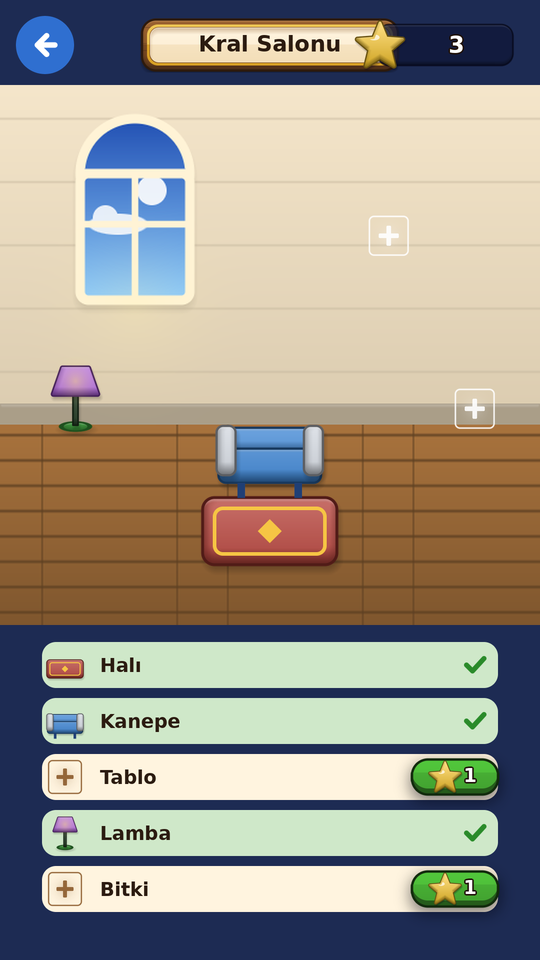
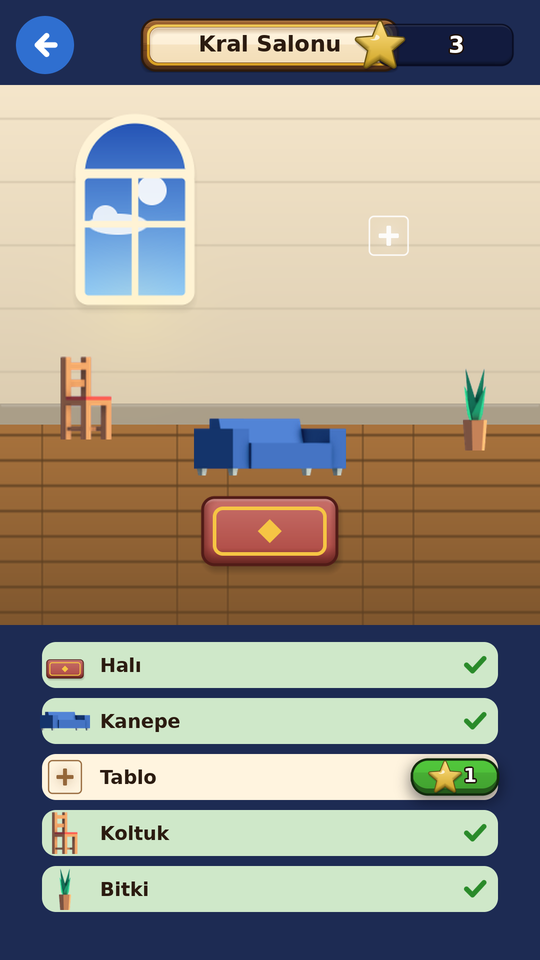
Royal Match klonu: Kenney CC0 hazır çizimler (mobilya, simge, parçacık)
Assets/Resources/Art altına kamu malı Kenney paketlerinden mobilya
(odalar için 9 tür × 3 model), beyaz arayüz simgeleri ve parçacık
dokuları eklendi; LICENSE-CC0.txt ile birlikte. Art.Ext yükleyicisi
dosya varsa onu, yoksa kodla üretilen görseli kullanır. Oda görevlerine
koltuk ve televizyon eklendi; patlama efektleri gerçek yıldız/ışık
dokularıyla zenginleştirildi. Oda taslağı güncellendi.

Claude-Session: https://claude.ai/code/session_01Rx5HF5XXL6DvYaD9FX2Ao7

diff --git a/RoyalMatchUnity/Assets/Scripts/UI/RoomScreen.cs b/RoyalMatchUnity/Assets/Scripts/UI/RoomScreen.cs
@@ -20,10 +20,10 @@ namespace RoyalMatch
                 {
                     new RoomDef { name = "Kral Salonu", tasks = new[] {
                         T("Halı", "carpet", 0.5f, 0.2f, 2.4f), T("Kanepe", "sofa", 0.5f, 0.33f, 1.9f), T("Tablo", "painting", 0.72f, 0.72f, 1.3f),
-                        T("Lamba", "lamp", 0.14f, 0.42f, 1.3f), T("Bitki", "plant", 0.88f, 0.4f, 1.3f) } },
+                        T("Koltuk", "chair", 0.16f, 0.42f, 1.3f), T("Bitki", "plant", 0.88f, 0.4f, 1.3f) } },
                     new RoomDef { name = "Yatak Odası", tasks = new[] {
                         T("Yatak", "bed", 0.5f, 0.3f, 2.2f), T("Halı", "carpet", 0.5f, 0.14f, 1.8f), T("Kitaplık", "bookshelf", 0.14f, 0.5f, 1.5f),
-                        T("Lamba", "lamp", 0.86f, 0.42f, 1.2f), T("Tablo", "painting", 0.5f, 0.78f, 1.2f) } },
+                        T("Lamba", "lamp", 0.86f, 0.42f, 1.2f), T("Televizyon", "tv", 0.5f, 0.6f, 1.1f) } },
                     new RoomDef { name = "Kraliyet Bahçesi", tasks = new[] {
                         T("Çeşme", "fountain", 0.5f, 0.32f, 2.2f), T("Bank", "bench", 0.2f, 0.26f, 1.5f), T("Bank", "bench", 0.8f, 0.26f, 1.5f),
                         T("Çiçek", "plant", 0.14f, 0.55f, 1.3f), T("Çiçek", "plant", 0.86f, 0.55f, 1.3f) } },
@@ -107,7 +107,7 @@ namespace RoyalMatch
                 float size = 128f * t.scale;
                 if (style >= 0)
                 {
-                    var f = Ui.Img(area.rectTransform, Art.Furniture(t.kind, style), Color.white, new Vector2(size, size), pos);
+                    var f = Ui.Img(area.rectTransform, Art.FurnitureAny(t.kind, style), Color.white, new Vector2(size * 1.25f, size), pos);
                     if (i == lastPlaced) { f.transform.localScale = Vector3.zero; f.gameObject.AddComponent<PlaceIn>(); }
                 }
                 else
@@ -118,7 +118,7 @@ namespace RoyalMatch
             }
 
             // Üst şerit
-            Ui.IconBtn(root, Art.Back(), Art.Hex("#2F6FD0"), 120f, new Vector2(30f, -30f), () => GameManager.I.ShowMap(), new Vector2(0f, 1f));
+            Ui.IconBtn(root, Art.IconBack(), Art.Hex("#2F6FD0"), 120f, new Vector2(30f, -30f), () => GameManager.I.ShowMap(), new Vector2(0f, 1f));
             Ui.Pill(root, Art.StarIcon(), d.stars.ToString(), new Vector2(-30f, -40f), new Vector2(280f, 90f), new Vector2(1f, 1f));
             var title = Ui.Wood(root, new Vector2(520f, 110f), new Vector2(0f, -30f), new Vector2(0.5f, 1f));
             Ui.Txt(title.rectTransform, room.name, 44, Art.Hex("#2B1B10"), Vector2.zero, new Vector2(500f, 100f), null, TextAnchor.MiddleCenter, false);
@@ -132,10 +132,10 @@ namespace RoyalMatch
                 var t = room.tasks[i];
                 bool done = Rooms.Choice(i) >= 0;
                 var row = Ui.Panel(root, done ? Art.Hex("#CFE8C9") : Art.Hex("#FFF4DF"), new Vector2(920f, 100f), new Vector2(0f, y), new Vector2(0.5f, 0f), true);
-                Ui.Img(row.rectTransform, done ? Art.Furniture(t.kind, Rooms.Choice(i)) : Art.FurnitureGhost(t.kind), done ? Color.white : Art.Hex("#8B5A2B"), new Vector2(80f, 80f), new Vector2(16f, 0f), new Vector2(0f, 0.5f));
+                Ui.Img(row.rectTransform, done ? Art.FurnitureAny(t.kind, Rooms.Choice(i)) : Art.FurnitureGhost(t.kind), done ? Color.white : Art.Hex("#8B5A2B"), new Vector2(80f, 80f), new Vector2(16f, 0f), new Vector2(0f, 0.5f));
                 Ui.Txt(row.rectTransform, t.name, 36, Art.Hex("#2B1B10"), new Vector2(110f, 0f), new Vector2(400f, 90f), new Vector2(0f, 0.5f), TextAnchor.MiddleLeft, false);
                 if (done)
-                    Ui.Img(row.rectTransform, Art.Check(), Art.Hex("#2A8A2A"), new Vector2(64f, 64f), new Vector2(-30f, 0f), new Vector2(1f, 0.5f));
+                    Ui.Img(row.rectTransform, Art.IconCheck(), Art.Hex("#2A8A2A"), new Vector2(64f, 64f), new Vector2(-30f, 0f), new Vector2(1f, 0.5f));
                 else
                 {
                     var b = Ui.Btn(row.rectTransform, "  1", d.stars >= 1 ? Art.GreenBtn : Art.Hex("#8A94A6"), new Vector2(180f, 78f), new Vector2(-16f, 0f), () =>
@@ -172,7 +172,7 @@ namespace RoyalMatch
                 int style = s;
                 float x = (s - 1) * 270f;
                 var slot = Ui.Panel(p, Art.Hex("#FFF3D6"), new Vector2(240f, 300f), new Vector2(x, -10f), null, true);
-                Ui.Img(slot.rectTransform, Art.Furniture(t.kind, style), Color.white, new Vector2(200f, 200f), new Vector2(0f, 30f));
+                Ui.Img(slot.rectTransform, Art.FurnitureAny(t.kind, style), Color.white, new Vector2(210f, 170f), new Vector2(0f, 30f));
                 Ui.Btn(slot.rectTransform, "Seç", Art.GreenBtn, new Vector2(180f, 70f), new Vector2(0f, -100f), () =>
                 {
                     if (Save.Data.stars < 1) return;

diff --git a/RoyalMatchUnity/Assets/Scripts/Art/ArtExternal.cs b/RoyalMatchUnity/Assets/Scripts/Art/ArtExternal.cs
@@ -1,0 +1,77 @@
+using System.Collections.Generic;
+using UnityEngine;
+
+namespace RoyalMatch
+{
+    /// <summary>
+    /// Dışarıdan gelen hazır çizimler: Assets/Resources/Art altındaki CC0 (Kenney) PNG'ler.
+    /// Dosya yoksa kodla üretilen görsel kullanılır; bu yüzden hiçbir ekran dosyaya bağımlı değildir.
+    /// PNG'ler Texture2D olarak yüklenir ve çalışma anında Sprite'a çevrilir (içe aktarma ayarı gerekmez).
+    /// </summary>
+    public static partial class Art
+    {
+        private static readonly Dictionary<string, Sprite> external = new Dictionary<string, Sprite>();
+        private static readonly HashSet<string> missing = new HashSet<string>();
+
+        /// <summary>Resources/Art/{path}.png varsa Sprite döner, yoksa null.</summary>
+        public static Sprite Ext(string path, float ppu = 100f)
+        {
+            Sprite s;
+            if (external.TryGetValue(path, out s)) return s;
+            if (missing.Contains(path)) return null;
+            Texture2D tex = Resources.Load<Texture2D>("Art/" + path);
+            if (tex == null) { missing.Add(path); return null; }
+            s = Sprite.Create(tex, new Rect(0, 0, tex.width, tex.height), new Vector2(0.5f, 0.5f), ppu);
+            s.name = "ext_" + path;
+            external[path] = s;
+            return s;
+        }
+
+        /// <summary>Oda eşyası için hazır model adı (Kenney Furniture Kit, yan görünüm). Yoksa null → kodla çizilir.</summary>
+        public static string FurnitureFile(string kind, int style)
+        {
+            string[] set;
+            switch (kind)
+            {
+                case "sofa": set = new[] { "loungeSofa", "loungeDesignSofa", "loungeSofaLong" }; break;
+                case "table": set = new[] { "table", "tableRound", "tableCoffee" }; break;
+                case "lamp": set = new[] { "lampRoundFloor", "lampSquareFloor", "lampRoundTable" }; break;
+                case "plant": set = new[] { "pottedPlant", "plantSmall1", "plantSmall3" }; break;
+                case "bed": set = new[] { "bedSingle", "bedDouble", "bedBunk" }; break;
+                case "bookshelf": set = new[] { "bookcaseClosed", "bookcaseOpen", "bookcaseClosedWide" }; break;
+                case "bench": set = new[] { "bench", "benchCushion", "benchCushionLow" }; break;
+                case "chair": set = new[] { "loungeChair", "loungeChairRelax", "chairCushion" }; break;
+                case "tv": set = new[] { "televisionModern", "televisionVintage", "radio" }; break;
+                default: return null;
+            }
+            return set[Mathf.Clamp(style, 0, set.Length - 1)];
+        }
+
+        /// <summary>Hazır eşya çizimi varsa onu, yoksa kodla üretileni verir.</summary>
+        public static Sprite FurnitureAny(string kind, int style)
+        {
+            string f = FurnitureFile(kind, style);
+            Sprite s = f == null ? null : Ext("furniture/" + f);
+            return s ?? Furniture(kind, style);
+        }
+
+        // Parçacık paketi (yumuşak kenarlı gerçek efekt dokuları); yoksa kodla üretilen eşdeğer
+        public static Sprite FxStar() { return Ext("fx/star_05", 400f) ?? Sparkle(); }
+        public static Sprite FxStarSmall() { return Ext("fx/star_07", 400f) ?? Particle(); }
+        public static Sprite FxLight() { return Ext("fx/light_01", 400f) ?? SoftGlow(); }
+        public static Sprite FxFlare() { return Ext("fx/flare_01", 400f) ?? SoftGlow(); }
+        public static Sprite FxTwirl() { return Ext("fx/twirl_02", 400f) ?? Ring(); }
+        public static Sprite FxMagic() { return Ext("fx/magic_03", 400f) ?? Sparkle(); }
+        public static Sprite FxCircle() { return Ext("fx/circle_05", 400f) ?? Particle(); }
+
+        // Arayüz simgeleri (Kenney Game Icons, beyaz; Image.color ile renklenir)
+        public static Sprite IconGear() { return Ext("icons/gear") ?? Gear(); }
+        public static Sprite IconHome() { return Ext("icons/home") ?? Home(); }
+        public static Sprite IconBack() { return Ext("icons/arrowLeft") ?? Back(); }
+        public static Sprite IconClose() { return Ext("icons/cross") ?? Close(); }
+        public static Sprite IconPlus() { return Ext("icons/plus") ?? Plus(); }
+        public static Sprite IconCheck() { return Ext("icons/checkmark") ?? Check(); }
+        public static Sprite IconSpeaker(bool on) { return Ext(on ? "icons/audioOn" : "icons/audioOff") ?? Speaker(on); }
+        public static Sprite IconTrophyFlat() { return Ext("icons/trophy"); }
+    }
+}

diff --git a/RoyalMatchUnity/Assets/Scripts/UI/MapScreen.cs b/RoyalMatchUnity/Assets/Scripts/UI/MapScreen.cs
@@ -31,7 +31,7 @@ namespace RoyalMatch
             var coinsPill = ms.coinsText.transform.parent.gameObject;
             var coinBtn = coinsPill.AddComponent<Button>(); coinBtn.onClick.AddListener(() => ShopPopup.Show(root));
             var plus = Ui.Img(coinsPill.transform, Art.CircleUi(), Art.GreenBtn, new Vector2(54f, 54f), new Vector2(-8f, 0f), new Vector2(1f, 0.5f));
-            Ui.Img(plus.rectTransform, Art.Plus(), Color.white, new Vector2(34f, 34f), Vector2.zero);
+            Ui.Img(plus.rectTransform, Art.IconPlus(), Color.white, new Vector2(34f, 34f), Vector2.zero);
             ms.starsText = Ui.Pill(root, Art.StarIcon(), d.stars.ToString(), new Vector2(-30f, -40f), new Vector2(300f, 90f), new Vector2(1f, 1f));
 
             // Konuşma balonu + Kral
@@ -45,7 +45,7 @@ namespace RoyalMatch
             var room = Rooms.Get(d.roomIndex);
             int done = 0; for (int i = 0; i < room.tasks.Length; i++) if (Rooms.Choice(i) >= 0) done++;
             var roomPanel = Ui.Glass(root, new Vector2(760f, 110f), new Vector2(0f, -130f));
-            Ui.Img(roomPanel.rectTransform, Art.Home(), Color.white, new Vector2(64f, 64f), new Vector2(60f, 0f), new Vector2(0f, 0.5f));
+            Ui.Img(roomPanel.rectTransform, Art.IconHome(), Color.white, new Vector2(64f, 64f), new Vector2(60f, 0f), new Vector2(0f, 0.5f));
             Ui.Txt(roomPanel.rectTransform, room.name + "   " + done + "/" + room.tasks.Length, 40, Color.white, new Vector2(30f, 0f), new Vector2(600f, 100f));
             var rb = roomPanel.gameObject.AddComponent<Button>(); rb.onClick.AddListener(() => GameManager.I.ShowRooms());
             roomPanel.gameObject.AddComponent<PressScale>();
@@ -70,7 +70,7 @@ namespace RoyalMatch
             // Alt gezinti
             var bar = Ui.Wood(root, new Vector2(1120f, 220f), new Vector2(0f, -10f), new Vector2(0.5f, 0f));
             string[] labels = { "Şato", "Mağaza", "Ayarlar" };
-            Sprite[] icons = { Art.Home(), Art.Coin(), Art.Gear() };
+            Sprite[] icons = { Art.IconHome(), Art.Coin(), Art.IconGear() };
             Color[] cols = { Art.Hex("#2F6FD0"), Art.Hex("#B9831A"), Art.Hex("#5C6676") };
             System.Action[] acts = { () => GameManager.I.ShowRooms(), () => ShopPopup.Show(root), () => SettingsPopup.Show(root) };
             for (int i = 0; i < 3; i++)

diff --git a/RoyalMatchUnity/Assets/Scripts/Board/BoardView.cs b/RoyalMatchUnity/Assets/Scripts/Board/BoardView.cs
@@ -75,7 +75,7 @@ namespace RoyalMatch
             var vel = new List<Vector3>();
             for (int i = 0; i < n; i++)
             {
-                var sr = Spawn(parent, Art.Particle(), pos, c, 45);
+                var sr = Spawn(parent, (i % 3 == 0) ? Art.FxStarSmall() : Art.FxCircle(), pos, c, 45);
                 float a = Random.Range(0f, Mathf.PI * 2f), sp = Random.Range(2.5f, 5.5f);
                 sr.transform.localScale = Vector3.one * Random.Range(0.6f, 1.1f);
                 parts.Add(sr); vel.Add(new Vector3(Mathf.Cos(a) * sp, Mathf.Sin(a) * sp, 0f));
@@ -98,6 +98,9 @@ namespace RoyalMatch
 
         public static IEnumerator Ring(Transform parent, Vector3 pos, Color c, float radius, float dur = 0.35f)
         {
+            var glow = Spawn(parent, Art.FxLight(), pos, new Color(c.r, c.g, c.b, 0.8f), 43);
+            glow.transform.localScale = Vector3.one * radius;
+            Object.Destroy(glow.gameObject, dur * 0.6f);
             var sr = Spawn(parent, Art.Ring(), pos, c, 44);
             float t = 0f;
             while (t < dur)

diff --git a/RoyalMatchUnity/Assets/Scripts/UI/HudScreen.cs b/RoyalMatchUnity/Assets/Scripts/UI/HudScreen.cs
@@ -84,12 +84,12 @@ namespace RoyalMatch
                 goalIcons[g] = icon.rectTransform;
                 goalTexts[g] = Ui.Badge(topPanel, level.goals[i].count.ToString(), Art.NavyUi, 58f, new Vector2(x + 44f, -54f));
                 shown[g] = level.goals[i].count;
-                var ck = Ui.Img(topPanel, Art.Check(), Art.Hex("#52C83C"), new Vector2(56f, 56f), new Vector2(x + 44f, -54f));
+                var ck = Ui.Img(topPanel, Art.IconCheck(), Art.Hex("#52C83C"), new Vector2(56f, 56f), new Vector2(x + 44f, -54f));
                 ck.gameObject.SetActive(false);
                 goalChecks[g] = ck;
             }
 
-            Ui.IconBtn(topPanel, Art.Gear(), Art.Hex("#2F6FD0"), 120f, new Vector2(-40f, 0f), ShowPause, new Vector2(1f, 0.5f));
+            Ui.IconBtn(topPanel, Art.IconGear(), Art.Hex("#2F6FD0"), 120f, new Vector2(-40f, 0f), ShowPause, new Vector2(1f, 0.5f));
 
             if (level.difficulty != Difficulty.Normal)
                 Ui.RibbonTitle(rt, level.difficulty == Difficulty.Hard ? "ZOR SEVİYE" : "ÇOK ZOR SEVİYE",

diff --git a/RoyalMatchUnity/Assets/Scripts/Board/BoardController.cs b/RoyalMatchUnity/Assets/Scripts/Board/BoardController.cs
@@ -551,7 +551,23 @@ namespace RoyalMatch
             views[p.id] = v;
             v.transform.localScale = Vector3.zero;
             StartCoroutine(Fx.Ring(boardRoot, pos, Color.white, 0.9f, 0.25f));
+            var tw = Fx.Spawn(boardRoot, Art.FxTwirl(), pos, new Color(1f, 0.95f, 0.7f, 0.9f), 41);
+            StartCoroutine(Spin(tw, 0.4f));
             yield return Tween.Scale(v.transform, Vector3.one * 0.92f, 0.18f, Ease.OutBack);
+        }
+
+        private IEnumerator Spin(SpriteRenderer sr, float dur)
+        {
+            float t = 0f;
+            while (t < dur && sr != null)
+            {
+                t += Time.deltaTime; float k = t / dur;
+                sr.transform.localEulerAngles = new Vector3(0, 0, k * 240f);
+                sr.transform.localScale = Vector3.one * (0.6f + k * 1.2f);
+                sr.color = new Color(1f, 0.95f, 0.7f, 0.9f * (1f - k));
+                yield return null;
+            }
+            if (sr != null) Destroy(sr.gameObject);
         }
 
         private IEnumerator AnimateGravity()

diff --git a/RoyalMatchUnity/Assets/Scripts/UI/UiKit.cs b/RoyalMatchUnity/Assets/Scripts/UI/UiKit.cs
@@ -199,7 +199,7 @@ namespace RoyalMatch
 
         public static void CloseButton(RectTransform panel, Action onClose = null)
         {
-            IconBtn(panel, Art.Close(), Art.RedBtn, 96f, new Vector2(14f, 14f), () => { ClosePopup(panel); if (onClose != null) onClose(); }, new Vector2(1f, 1f), 0.5f);
+            IconBtn(panel, Art.IconClose(), Art.RedBtn, 96f, new Vector2(14f, 14f), () => { ClosePopup(panel); if (onClose != null) onClose(); }, new Vector2(1f, 1f), 0.5f);
         }
 
         public static Color Hex(string h) { return Art.Hex(h); }

diff --git a/RoyalMatchUnity/README.md b/RoyalMatchUnity/README.md
@@ -70,6 +70,15 @@ Animasyonlar (hepsi kodla, dış paket yok):
 - Harita: Kral hafifçe sallanır, bulutlar kayar, seviye düğmesi nabız atar; tüm düğmeler basınca küçülür.
 - Pencereler küçükten yaylanarak açılır, perde yumuşak belirir; odada yeni eşya yaylanarak yerleşir, boş yerler nabız atar.
 
+## Hazır çizimler (CC0)
+
+`Assets/Resources/Art/` altında Kenney'nin kamu malı (CC0) paketlerinden seçilmiş gerçek çizimler var:
+**Furniture Kit** (şato odalarındaki eşyalar: kanepe, masa, lamba, bitki, yatak, kitaplık, bank, koltuk, televizyon),
+**Game Icons** (ayarlar, ev, geri, kapat, artı, onay, ses) ve **Particle Pack** (yıldız, ışık, girdap, parıltı efektleri).
+`Art.Ext()` bu dosyaları yükler; dosya yoksa kodla üretilen görsel devreye girer, yani klasör silinse bile oyun çalışır.
+Taşlar, güçlendiriciler, engeller, Kral ve panolar bilinçli olarak kodla üretilmeye devam eder: bu stil için
+Royal Match kalitesinde kamu malı bir paket yok, Royal Match'in kendi çizimleri ise telifli olduğu için kullanılmadı.
+
 ## Kod yapısı
 
 ```
@@ -77,9 +86,11 @@ Assets/Scripts/
   Core/      Bootstrap (otomatik kurulum), GameManager (ekran akışı), SaveData (PlayerPrefs JSON), Tween, Enums
   Board/     BoardModel (saf oyun mantığı: eşleme, güçlendiriciler, kombolar, engeller, yer çekimi, karıştırma)
              BoardController (girdi, tur akışı, animasyon), BoardView (taş/efekt görünümleri), LevelData + LevelGenerator
-  Art/       Painter (SDF tabanlı piksel boyama), ArtLibrary (taşlar, güçlendiriciler, engeller), ArtIcons (arayüz, kral, odalar)
+  Art/       Painter (SDF tabanlı piksel boyama), ArtLibrary (taşlar, güçlendiriciler, engeller), ArtIcons (arayüz, kral, odalar),
+             ArtExternal (Resources/Art altındaki hazır CC0 PNG'leri yükler, yoksa kodla üretilene düşer)
   UI/        UiKit (uGUI kurucu), HudScreen, MapScreen (+ seviye öncesi, mağaza, ayarlar), RoomScreen
   Audio/     Sfx (sentezlenmiş sesler)
+Resources/Art/ Kenney CC0 çizimleri (mobilya, simge, parçacık) + LICENSE-CC0.txt
 Docs/        Ekran taslakları ve üretilen görsellerin önizlemeleri
 ```
 
